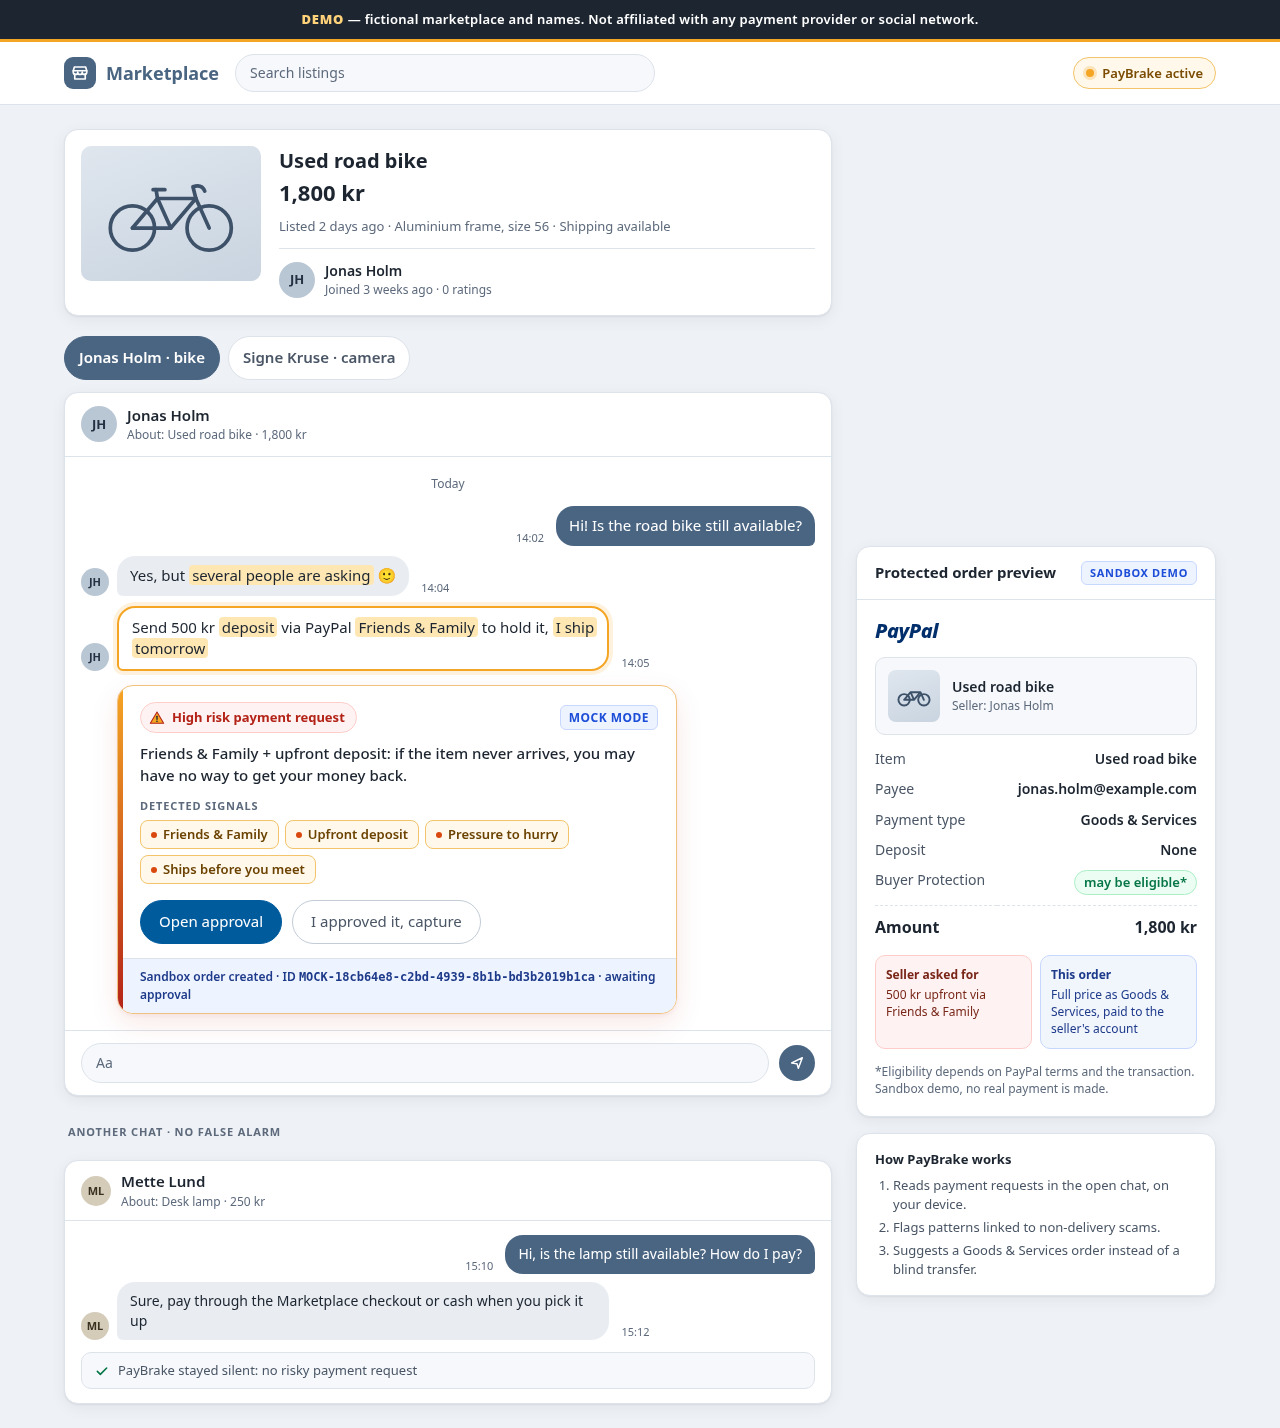
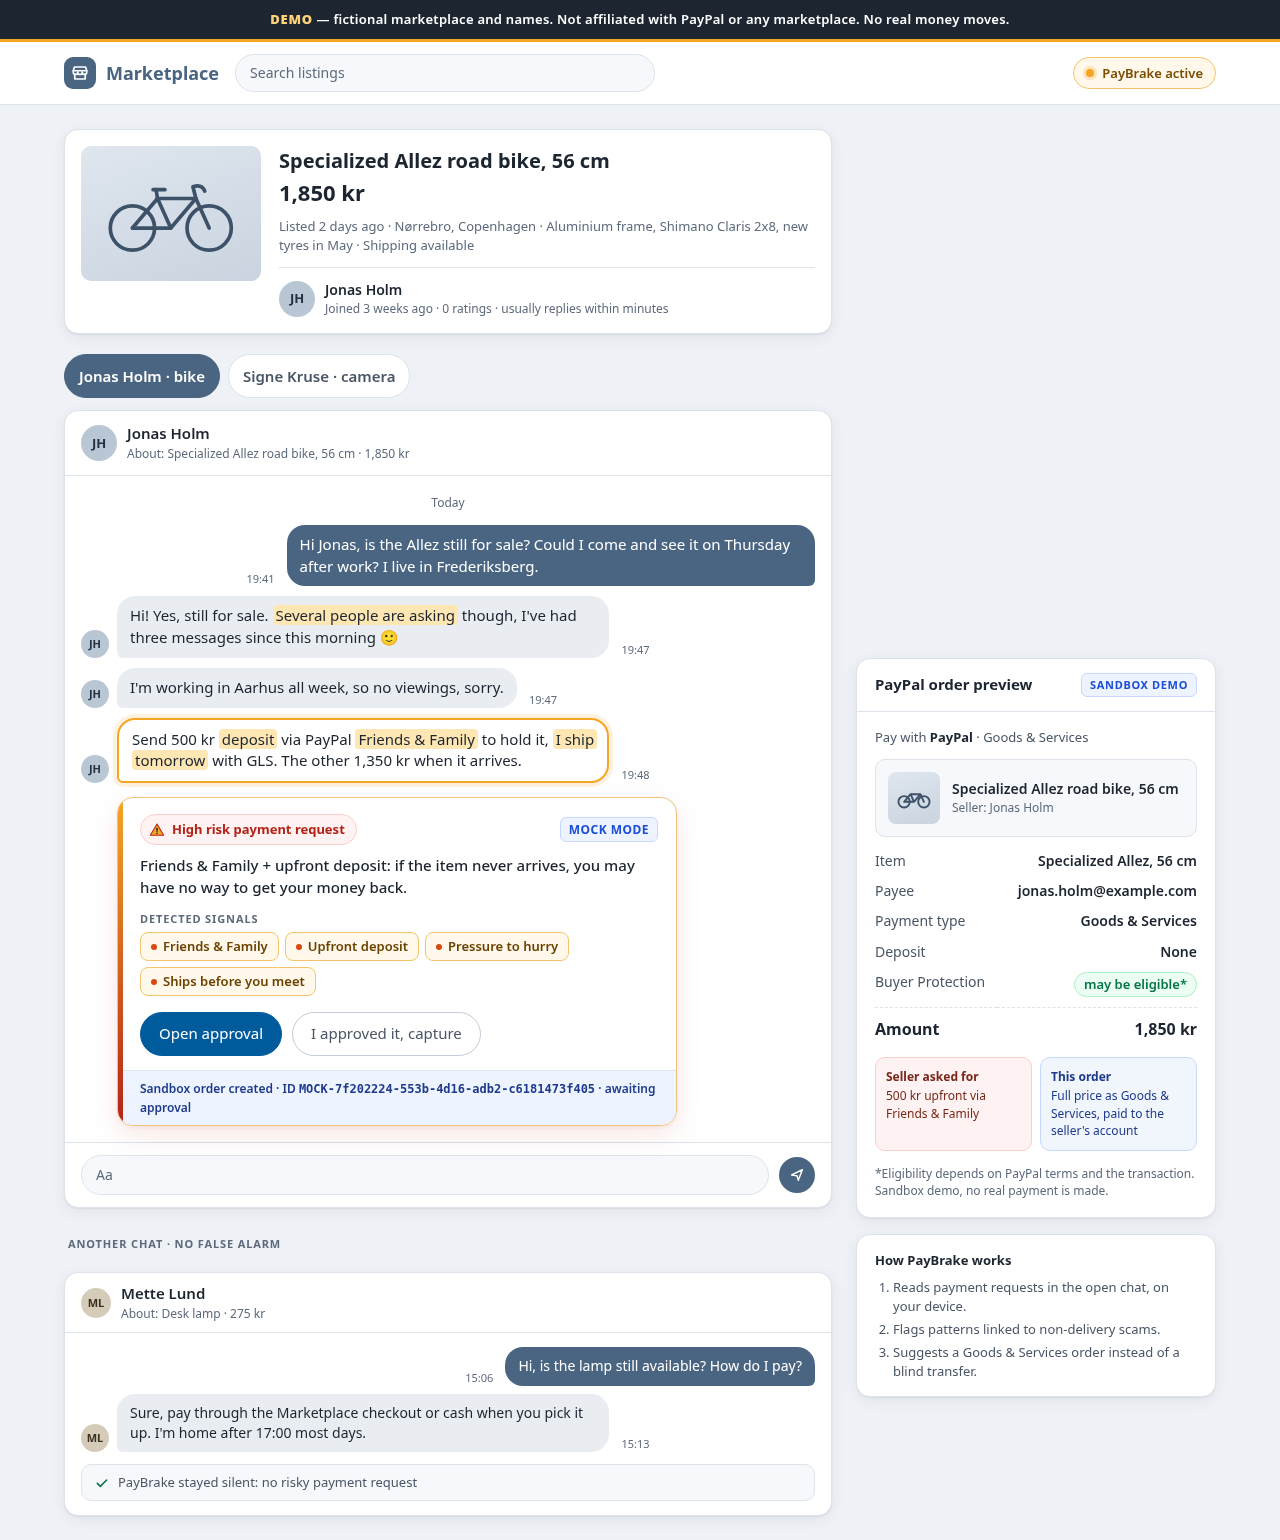
Submission prep: judge README, demo GIF, Devpost draft, release gate (#7)
* Document judge demo and submission story

* Record submission gaps and local QA

* Record the release gate and submission QA notes

Keep main's screenshots. The images in this commit were from an older build and are not current.

* fix: list test files in Node so npm test needs no shell glob

Node 20 does not expand globs passed to node --test, and Windows cmd does not either. The script names the same tests/*.mjs and backend/test/*.mjs files the shell glob used to match.

* docs: refresh submission notes and demo shots for current main

Rebase left the judge docs describing the pre-detector build. Numbers now come from a fresh npm test and npm run eval. The bike-card still, phone still, and demo GIF were recaptured from this tree. Hosted tester and pilot shots were not.

---------

diff --git a/docs/SUBMISSION-GAPS.md b/docs/SUBMISSION-GAPS.md
@@ -1,0 +1,67 @@
+# Submission gaps
+
+Early submission: 5 November, 21:00 CET. Final: 12 November. Re-checked after rebasing onto current main. The **Before going public** commands were not run.
+
+## Before going public
+
+Dima decides. Nothing in this section was run on this branch. The pilot is still in the tree on purpose. A top-level notice with the same warning is in [pilot/README.md](../pilot/README.md).
+
+`pilot/extension/manifest.json` injects on Facebook and Messenger, and `pilot/INSTALL-RU.md` directs testers to real chats. That folder is not the judge path. The judge path is the local mock in the repository README.
+
+1. Read `pilot/README.md`, `pilot/INSTALL-RU.md`, `pilot/extension/manifest.json`, and `PILOT-TASK.md`.
+2. Check history for the pilot path. An empty result is not proof the blobs are gone from every clone; this is the check to run:
+
+```sh
+git log --all -- pilot
+```
+
+Also check the task file and the pilot screenshots, which sit outside `pilot/`:
+
+```sh
+git log --all -- PILOT-TASK.md
+git log --all -- shots/pilot-1280.png shots/pilot-390.png shots/pilot-anyway-1280.png shots/pilot-order-1280.png shots/pilot-order-created-1280.png shots/pilot-safe-1280.png
+```
+
+If a later deletion makes that log look shorter than expected, repeat the pilot check without history simplification:
+
+```sh
+git log --all --full-history -- pilot
+```
+
+3. Decide one of: keep the pilot in a private remote only, move it to a reviewed private location, or drop it from the tree that will be published. To drop it from the next commit (this does not rewrite history):
+
+```sh
+git rm -r pilot PILOT-TASK.md
+```
+
+The six `shots/pilot-*.png` files are not inside `pilot/`. Include them only as part of the same decision:
+
+```sh
+git rm -- shots/pilot-1280.png shots/pilot-390.png shots/pilot-anyway-1280.png shots/pilot-order-1280.png shots/pilot-order-created-1280.png shots/pilot-safe-1280.png
+```
+
+4. Review `git status` and `git diff --cached` before committing. Look through `pilot/fixtures/`, the pilot screenshots, documentation, and `eval/` for personal information and for anything the team does not have the rights to publish. `.gitignore` does not untrack a file and does not erase history.
+5. After any removal commit, run `git log --all -- pilot` again. If those commits must not be public, rewriting history is a separate decision. Do not treat `git rm` as a history wipe.
+6. Confirm the published README, Devpost draft, and demo video point at the README demo (the hosted demo or the local mock), not at this pilot.
+
+## Gaps
+
+1. **Public release gate — pilot and data.** `pilot/extension/manifest.json` injects on Facebook and Messenger, and `pilot/INSTALL-RU.md` directs testers to real chats. Before making the repo public, remove or move the third-party-targeting pilot and related instructions (`PILOT-TASK.md`) to an appropriately reviewed private location, or replace them with a local-only fixture. Do not present it as the judge path. Inspect `pilot/fixtures/`, screenshots in `shots/`, documentation, git history, and any evaluation data for personal information and rights to publish. This requires a human review; `.gitignore` alone does not remove tracked files or history. The pilot remains here pending that decision. The commands are in **Before going public** above. They were not run.
+2. **Credential-free judge path.** The README leads with the hosted demo at https://paybrake-demo.spbabinov.workers.dev/ and keeps a local fallback under **Run it locally**. `TESTING.md`, `hosted/`, `extension/welcome.html`, and `scripts/pack-extension.mjs` are on main. This branch did not redeploy the worker or rebuild the zip. Before submission, confirm that public URL, the zip, privacy, and the end-to-end flow still match this commit.
+3. **Stacked branches are no longer the integration plan.** The PayPal sandbox adapter (`backend/src/paypal-rest.js`, `backend/src/paypal-toolkit.js`), the tester and hosted path, and `eval/real/` are already on main. On-device detection from the later detector work is on main as well: reversed Friends & Family and gift wording, a personal PayPal payment, Wise, upfront / in advance / holding fee / reserve, Telegram and WhatsApp payment asks, and named rails including Western Union, Venmo, Swish, and Zelle. Do not re-land those as a separate detection branch. `eval/real/` includes large checked-in result files. Do not quote those scores as field performance. Read [eval/real/README.md](../eval/real/README.md) for licenses, what the datasets drop, and the split. A human still needs to review personal data and rights before treating that material as public-submission evidence. `site/` is not in this tree. If a promo-page branch still exists, align its claims with this README before adding it.
+4. **Evidence and presentation.** `npm run shots` and `npm run e2e` were re-run after the rebase (see QA). `shots/ext-live-1280.png` is the unpacked extension on the bike thread: **High risk payment request**, four signals (Friends & Family, Upfront deposit, Pressure to hurry, Ships before you meet), **Switch to a PayPal order** and **Pay anyway**, and the AI check off on the mock server. The lamp thread stays silent. `shots/ext-live-390.png` starts with the details collapsed and stacks the buttons. `shots/demo.gif` is that thread with no card, then the card, then the mock order. The static HTML card in `shots/demo-1280.png` is a separate mock: it lists three chips and does not include Pressure to hurry. Still open: record and caption the [video script](DEMO-VIDEO-SCRIPT.md), then replace [TODO video link] in the [Devpost draft](DEVPOST-DRAFT.md). The hosted demo URL is already in that draft. The draft says the evaluation is 35 synthetic cases and does not quote scores as field performance.
+5. **Claims and evaluation.** `eval/cases/pay-risk.json` contains 35 synthetic cases. `npm run eval` on this branch reported 18 true positives and 17 true negatives, with precision 1 and 0 false alarms. That is a regression check on those cases, not real-world accuracy. `eval/real/RESULTS.md` is already in the tree. Its older lines about 30 synthetic chats and an earlier test count were not re-run and are not restated here. Review provenance before citing real-eval numbers. Keep README and promo claims consistent with the features on this commit.
+6. **Repository hygiene.** `LICENSE` already contains MIT terms; confirm copyright and contributor attribution with the team. `.gitignore` excludes environment files, but inspect tracked files and history for secrets, personal data, and third-party assets before publication. `tests/secrets.test.mjs` runs as part of `npm test`. That is not a history or image audit. Rotate any actual credential if discovered.
+
+## QA
+
+Re-run after rebasing onto current main. One pass. Commands and results only. Figures below are from that pass. They are not real-world performance estimates.
+
+- `npm test`: 253 passed, 0 failed, 0 skipped, 0 cancelled, 0 todo. Exit 0. The command is `node scripts/run-tests.mjs`, which lists `tests/*.mjs` and `backend/test/*.mjs` in Node. It does not depend on the shell expanding globs.
+- Clean-clone check: a fresh directory of this branch, `npm install` (0 vulnerabilities), then the same `npm test` (253 passed) and `npm run eval` (precision 1, recall 1, f1 1, false alarms 0, tp 18, tn 17). With `backend/.env` copied from the example and no provider keys in the environment, `/health` reported `"paypal": "mock"` and `"llm": "off"`, and `POST /api/protect` returned a `MOCK-` id with `"mode": "mock"`. `tests/secrets.test.mjs` runs `git grep`, so that directory has to be a git checkout. This pass ran on Node 24. The test script uses Node 20 file and process APIs and was not re-executed on Node 20 or Windows.
+- `npm run eval`: exit 0. 35 synthetic rules cases: 18 true positives, 0 false positives, 0 false negatives, 17 true negatives; precision 1, recall 1, f1 1, false alarms 0. The safe cases in this set stayed silent under the rails now on main.
+- `npm run shots`: exit 0. All checks passed, including the phone card (the level pill is uppercase via CSS, so the check is case-insensitive). Refreshed `shots/demo-1280.png`, `shots/demo-390.png`, `shots/demo-1280-protect.png`, `shots/live-1280.png`, `shots/live-1280-order.png`, and `shots/live-390.png`. `shots/safe-1280.png` was rewritten and matched the bytes already on main.
+- `npm run e2e`: exit 0. Printed `extension smoke passed`. Refreshed `shots/ext-live-1280.png` and `shots/ext-live-390.png`. Desktop card text: **High risk payment request**, signals Friends & Family, Upfront deposit, Pressure to hurry, Ships before you meet, buttons **Switch to a PayPal order** and **Pay anyway**, tag **AI check off (mock server)**. The phone card starts collapsed and stacks the buttons. The lamp thread stays silent.
+- `shots/demo.gif`: frames of `#thread-bike` on the local demo with the unpacked extension (no card, then the card above, then the mock order with **Open approval**). Encoded at 768×720, 4.76s, 8 fps. Embedded in the README. The order id in the last frame is from that run and will differ next time.
+- `npm run e2e:hosted` was not run. TODO (stale assets): `shots/tester/`, `shots/tester-v2/`, `shots/tester-v3/`, `shots/ai-live/`, and `shots/pilot-*.png` were not regenerated. Do not treat them as current.
+- The **Before going public** commands were not run. `pilot/` and `PILOT-TASK.md` are still in the tree.

diff --git a/README.md b/README.md
@@ -97,6 +97,16 @@ The static card is hidden. The extension draws its own card in the bike thread. 
 
 `Signe Kruse · camera` is a second risky thread for **Pay anyway**. `demo/safe-chats.html` should stay silent.
 
+![PayBrake card on the local bike thread](shots/ext-live-1280.png)
+
+That image is the unpacked extension on the local demo, from `npm run e2e`. The bike card says **High risk payment request** and lists four signals: Friends & Family, Upfront deposit, Pressure to hurry, and Ships before you meet. The buttons are **Switch to a PayPal order** and **Pay anyway**. With no model configured, the card says the AI check is off on the mock server. The lamp thread on the same page stays silent. On a phone the details start collapsed and those two buttons stack (`shots/ext-live-390.png`).
+
+![The card appears, then Switch to a PayPal order creates a mock order](shots/demo.gif)
+
+The clip is that same thread: no card, then the card, then **Open approval** after the mock order is created. The order id changes on every run.
+
+These steps are the local path. The hosted path above is the same interaction without Node. Narration for a recording is in [the video script](docs/DEMO-VIDEO-SCRIPT.md). Open items before a public submission are in [submission gaps](docs/SUBMISSION-GAPS.md).
+
 Options (right-click the toolbar icon, or open the extension's options page): backend URL (default: the hosted mock server `https://paybrake-demo.spbabinov.workers.dev`; one click switches to `http://localhost:8787`), rules-only vs an AI check, a debug HUD, and the on-device override log (download JSON or clear).
 
 ## What the pieces do
@@ -170,11 +180,13 @@ npm test
 npm run eval
 ```
 
-`npm test` passes 253 tests. All of them are offline.
+`npm test` passes 253 tests. All of them are offline. The script lists `tests/*.mjs` and `backend/test/*.mjs` in Node (`scripts/run-tests.mjs`). It does not need the shell to expand globs, so the same command works on Node 20 and on Windows `cmd`.
 
 Rules eval on the synthetic set in `eval/cases/` (35 chats): precision 1, recall 1, false alarms 0 (tp 18, fp 0, fn 0, tn 17). The run exits 1 if precision is under 0.95, recall is under 0.80, or any safe case fires. Live eval exits 0 with a skip message unless `/health` reports the model configured.
 
-TODO (stale assets): screenshots and GIFs under `shots/` (including `shots/tester/`, `shots/tester-v2/`, `shots/tester-v3/`, and `shots/ai-live/`) were not regenerated in this headless checkout. Do not treat them as current. Regenerate with `npm run shots` and `npm run e2e` / `npm run e2e:hosted` on a machine that can launch Chromium.
+`npm run shots` and `npm run e2e` refreshed `shots/demo-1280.png`, `shots/demo-390.png`, `shots/demo-1280-protect.png`, `shots/live-1280.png`, `shots/live-1280-order.png`, `shots/live-390.png`, `shots/ext-live-1280.png`, `shots/ext-live-390.png`, and `shots/demo.gif` on this branch. `shots/safe-1280.png` was rewritten by the same shots run and matched the file already on main.
+
+TODO (stale assets): `shots/tester/`, `shots/tester-v2/`, `shots/tester-v3/`, `shots/ai-live/`, and `shots/pilot-*.png` were not regenerated here. Do not treat those as current. `npm run e2e:hosted` was not run.
 
 Screenshots: `npm run shots`. Extension smoke: `npm run e2e` (Chromium with the unpacked extension). If the browser cannot load an extension in this environment, that script prints `SKIP` and exits 0.
 

diff --git a/docs/DEVPOST-DRAFT.md b/docs/DEVPOST-DRAFT.md
@@ -1,0 +1,33 @@
+# PayBrake — Devpost draft
+
+**Team:** Dima, Christopher, David
+
+**Video:** [TODO video link]
+
+**Hosted demo:** https://paybrake-demo.spbabinov.workers.dev/
+
+Judges can open that hosted demo, or run the credential-free local mock from the README. The video is not recorded yet. Do not replace the video placeholder until it exists. This branch did not redeploy the hosted demo.
+
+## Inspiration
+
+A marketplace conversation can look ordinary until a seller asks for a payment method that leaves the buyer with fewer options. We wanted to give someone a moment to reconsider while the request is still in context.
+
+## What it does
+
+PayBrake is a browser extension that looks for evidence of risky payment requests in a supported chat and shows a card explaining the signals. In the hosted demo and the local marketplace demo, the user can start a PayPal order for the item (sandbox when keys are set, otherwise a mock order), approve it, and simulate capture. The mock path needs no credentials and moves no real money. PayPal Buyer Protection eligibility depends on its terms; the prototype cannot determine coverage.
+
+## How we built it
+
+A Chrome extension reads the demo chat and applies English and Danish rules on the device. Those rules cover PayPal Friends & Family (including reversed phrasing and gift wording), a personal PayPal payment, Wise, Western Union, Venmo, Swish, Zelle, a payment ask that names Telegram or WhatsApp, and upfront, holding-fee, or reserve requests. A Node backend creates the order: PayPal Orders v2 sandbox when credentials are set, otherwise an in-memory mock. An optional server-side model check can confirm or lower a rules hit. It cannot raise one. The hosted demo and the local pages use fictional chats.
+
+## Challenges we ran into
+
+Payment language is contextual: an ordinary mention of a payment method is not always a request to pay. We designed the detector to require evidence and included safe conversations to check that it remains quiet. The prototype's patterns can still miss scams or make mistakes.
+
+## Accomplishments that we're proud of
+
+We connected an evidence-based intervention to a mock order and approval flow, with a PayPal sandbox adapter when keys are set. The offline evaluation is 35 synthetic cases in [eval/cases/pay-risk.json](../eval/cases/pay-risk.json): fictional chats written for this prototype. Run `npm run eval` to reproduce it. That run is a regression check on those 35 cases. It is not a measure of real-world accuracy, and this draft does not quote its scores as field performance.
+
+## What's next
+
+Record and caption the demo video ([TODO video link]) from [the video script](DEMO-VIDEO-SCRIPT.md). Validate detection on independently sourced data before quoting it. Review privacy and the pilot's site permissions before any real-world use. The hosted demo is linked above; confirm it still matches this commit before submission day.

diff --git a/docs/DEMO-VIDEO-SCRIPT.md b/docs/DEMO-VIDEO-SCRIPT.md
@@ -1,0 +1,13 @@
+# Demo video script (about 2 minutes)
+
+Record either the hosted demo or the local mock, both described in the [README](../README.md). Use fictional demo chats. Do not record personal conversations or credentials. Button labels below match the current build. The hosted demo can show an **AI checked** tag once the server replies. The local mock, with no model configured, says the AI check is off.
+
+| Time | Screen and narration |
+| --- | --- |
+| 0:00–0:20 | Show the marketplace chat. “A payment request can arrive in the middle of an ordinary conversation. PayBrake pauses at the point where someone is asked to pay.” |
+| 0:20–0:45 | Show the bike thread and the extension card. Point to the four signals on that thread: Friends & Family, Upfront deposit, Pressure to hurry, and Ships before you meet. “The extension checks the chat on the device for concrete payment-risk signals. It explains what it found instead of interrupting every conversation.” |
+| 0:45–1:20 | Select **Switch to a PayPal order**, open approval, approve the mock (or the PayPal sandbox page, if the server is on sandbox), return and capture. “Here we can start an order for the item. This approval and capture is a sandbox or a local simulation: no real money moves. Eligibility for Buyer Protection depends on PayPal's terms.” |
+| 1:20–1:40 | Open the safe chats page, or scroll to the lamp thread. “Ordinary conversations stay quiet in these examples. Detection is limited to the patterns and languages implemented, and can miss scams.” |
+| 1:40–2:00 | Return to the card and README. “PayBrake is a prototype by Dima, Christopher and David. Judges can run the hosted demo, or this same credential-free local mock, from the README.” |
+
+Before submission: record the actual flow, check that the labels still match the build, add captions, and replace the video placeholder in the [Devpost draft](DEVPOST-DRAFT.md).

diff --git a/pilot/README.md b/pilot/README.md
@@ -1,0 +1,17 @@
+# PayBrake pilot — do not publish this folder as the demo
+
+**Before going public.** This directory is a private rehearsal build, not the hackathon judge path. `extension/manifest.json` injects on `facebook.com` messages, `facebook.com` marketplace, and `messenger.com`, and a second content script matches all of `facebook.com` so the scan can follow that site's in-app navigation. `INSTALL-RU.md` tells a tester to open those live chats. The judge demo is the one in the repository [README](../README.md): the hosted demo, or the local mock at `demo/marketplace.html` on localhost. It is not this folder.
+
+Dima decides whether this tree stays, moves to a private repo, or is removed before any public remote. The commands for that decision are in [docs/SUBMISSION-GAPS.md](../docs/SUBMISSION-GAPS.md) under **Before going public**. They were not run on this branch. Deleting the files from the next commit does not erase them from history. `.gitignore` does not untrack them either.
+
+Do not link this pilot, `PILOT-TASK.md`, or `shots/pilot-*.png` from the Devpost submission.
+
+## What is in here
+
+- `extension/` — unpacked Manifest V3 pilot. Permissions are `storage` only. Host matches include Facebook messages, Facebook Marketplace, and messenger.com.
+- `fixtures/messenger-thread.html` — local DOM fixture. The Playwright script can serve it in place of those hosts. It is still a third-party-shaped target and is part of the same decision.
+- `INSTALL-RU.md` — install notes that send a tester to live chats.
+- `tests/` — detector cases and the pilot smoke test.
+- `scripts/` — zip packaging and debug helpers.
+
+`shots/pilot-1280.png`, `shots/pilot-390.png`, `shots/pilot-anyway-1280.png`, `shots/pilot-order-1280.png`, `shots/pilot-order-created-1280.png`, and `shots/pilot-safe-1280.png` live outside this directory. Removing `pilot/` leaves those images in the tree until they are removed too.

diff --git a/eval/real/README.md b/eval/real/README.md
@@ -1,6 +1,6 @@
 # Real-message eval (Hugging Face scam / ham datasets)
 
-The 30-chat synthetic eval in `eval/cases/` was written by us and scores 1.0 / 1.0.
+The 35-chat synthetic eval in `eval/cases/` was written by us and scores 1.0 / 1.0.
 This harness runs the same detector (`extension/lib`) on third-party public data.
 
 ```
